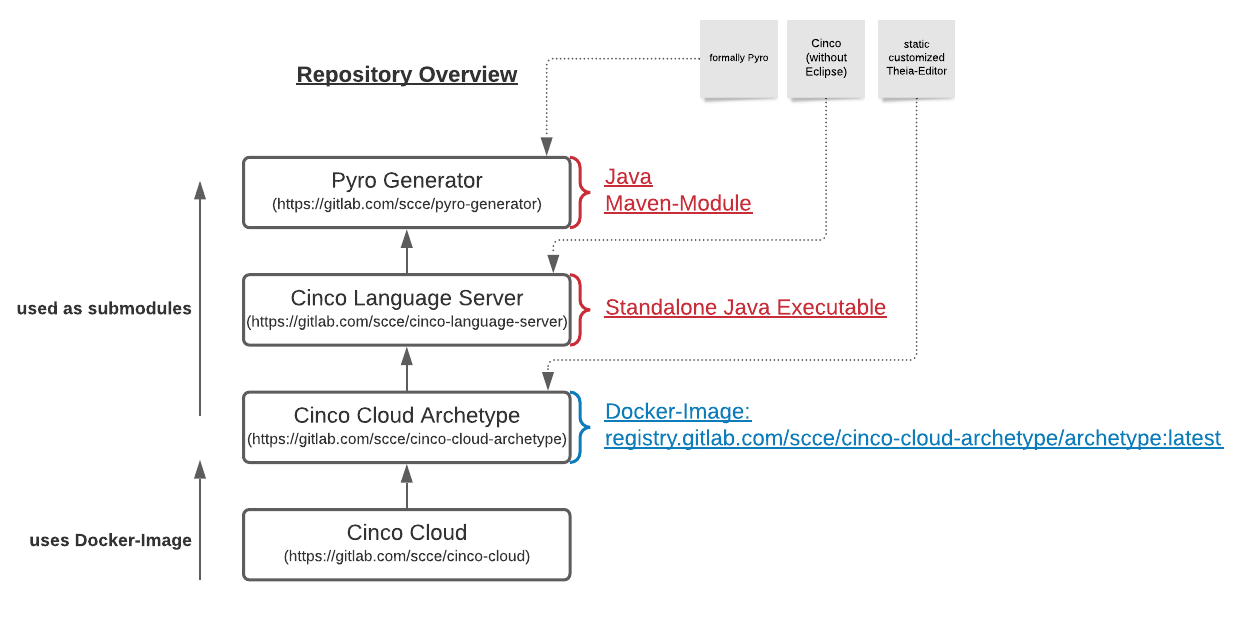
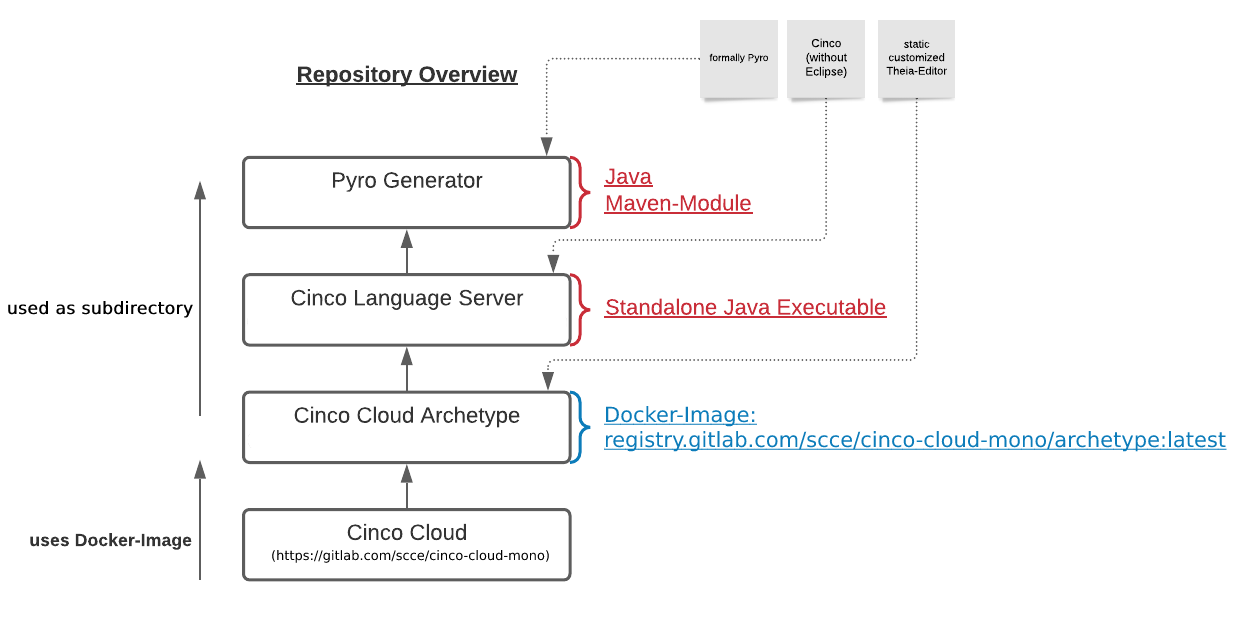
update docs and references

diff --git a/docs/vuepress/src/.vuepress/config.js b/docs/vuepress/src/.vuepress/config.js
@@ -50,7 +50,7 @@ module.exports = {
       },
       {
         text: 'CincoCloud@GitLab',
-        link: 'https://gitlab.com/scce/cinco-cloud'
+        link: 'https://gitlab.com/scce/cinco-cloud-mono'
       }
     ],
     sidebar: [

diff --git a/docs/vuepress/src/content/developer-guide/overview/README.md b/docs/vuepress/src/content/developer-guide/overview/README.md
@@ -1,28 +1,28 @@
 # Overview
 
-## Repositories
+## Directories
 
-There are several repositories involved in the concept of Cinco Cloud.
-Here you see a quick overview of all the repositories and their relations:
+There are several projects involved in the concept of Cinco Cloud that can be found in the repository.
+Here you see a quick overview of all the directories and their relations:
 
 ![Cinco Cloud Repositories](./assets/repository-overview.png)
 
-[**Cinco Cloud**](https://gitlab.com/scce/cinco-cloud):
-The *Cinco-Cloud repository* contains the *main-app*, which orchestrates the image deployment of editors and functions as central administration instances for the user- and project management.
+[**Cinco Cloud**](https://gitlab.com/scce/cinco-cloud-mono/-/tree/main/cinco-cloud):
+The *cinco-cloud* directory contains the *main-app*, which orchestrates the image deployment of editors and functions as central administration instances for the user- and project management.
 
-[**Cinco Cloud Archetype**](https://gitlab.com/scce/cinco-cloud-archetype):
-The *Cinco-Cloud Archetype repository* holds the sources for the static editor, which is based on *Eclipse Theia*, including all *theia and visual-studio-code* based *extensions*.
-One of these extensions can execute the *Cinco Language Server*, thus the project also contains the *Cinco Language Server*-repository as a submodule.
-Since this repository represents the most basic deployable Editor for a Cinco-Cloud project, it is continuously built to a docker-image via a CICD pipeline and put into a docker registry (registry.gitlab.com/scce/cinco-cloud-mono/archetype:latest).
+[**Cinco Cloud Archetype**](https://gitlab.com/scce/cinco-cloud-mono/-/tree/main/cinco-cloud-archetype):
+The *cinco-cloud-archetype* directory holds the sources for the static editor, which is based on *Eclipse Theia*, including all *theia and visual-studio-code* based *extensions*.
+One of these extensions can execute the *Cinco Language Server*, thus the project also contains the *Cinco Language Server*-project as a sub-directory.
+Since this directory represents the most basic deployable Editor for a Cinco-Cloud project, it is continuously built to a docker-image via a CICD pipeline and put into a docker registry (registry.gitlab.com/scce/cinco-cloud-mono/archetype:latest).
 This image will be reused and further expressed for new *Cinco Cloud projects*.
 
-[**Cinco Language Server**](https://gitlab.com/scce/cinco-language-server):
-The *Cinco language Server* itself first and foremost is a standalone Java executable.
+[**Cinco Language Server**](https://gitlab.com/scce/cinco-cloud-mono/-/tree/main/cinco-language-server):
+The *cinco-language-server* itself is a standalone Java executable.
 It serves language support for the *Cinco Languages* (CPD, MGL, Style/MSL) and a Generator to express new *Cinco Cloud Projects* based on these languages.
-A great part of this repository is based on the *Cinco*-repository, but without the *Eclipse-IDE dependencies*.
+A great part of this project is based on the *Cinco*-repository, but without the *Eclipse-IDE dependencies*.
 
-[**Pyro Generator**](https://gitlab.com/scce/pyro-generator):
-The *Pyro Generator* is a maven-submodule for both *Cinco* and the *Cinco Language Server*.
+[**Pyro Generator**](https://gitlab.com/scce/cinco-cloud-mono/-/tree/main/pyro-generator):
+The *pyro-generator* is a sub-directory for the *Cinco Language Server*.
 It expresses *Cinco Cloud Projects* based on the *Cinco Languages*.
 It is based on the formally known *Pyro*-repository.
 
@@ -54,7 +54,7 @@ Additionally, the Python web service offers a single endpoint for triggering the
 **Theia Editor**
 The *Theia Editor* is a framework for IDEs, based on [Eclipse Theia](https://github.com/eclipse-theia/theia).
 It represents the artifact that can be built by the *Workspace Builder* and deployed by the *Kubernetes API*.
-Its most basic form for the *Cinco-Cloud*, without specialization for a language, can be found inside the [*Cinco Cloud Archetype*](https://gitlab.com/scce/cinco-cloud-archetype).
+Its most basic form for the *Cinco-Cloud*, without specialization for a language, can be found inside the [*Cinco Cloud Archetype*](https://gitlab.com/scce/cinco-cloud-mono/-/tree/main/cinco-cloud-archetype).
 Each project that is deployed by a user via the CincoCloud frontend corresponds to exactly one Theia-based workspace.
 There are two kinds of editors that can be deployed: for the meta-level, a **Language Editor** is deployed that behaves similar to Cinco in a sense that we can define our graphical languages and write our generators here.
 The other one is a concrete **Model Editor** that uses parts of the Pyro front- and backend and allows graphical modelling.
@@ -63,19 +63,15 @@ In contrast to the language editor, the model editor is deployed together with a
 
 ## Secrets
 
-CincoCloud uses private GitLab repositories and its container registries.
-In order to pull images from these registries, we need to have the following three secrets (see the instruction on how to create and apply them [here](../installation/)) in the cluster:
+CincoCloud uses a private GitLab repository and its container registry.
+In order to pull images from its registry, we need to have the following secrets (see the instruction on how to create and apply them [here](../installation/)) in the cluster:
 
 * `cinco-cloud-registry-secret` <br>
-  Needed so that images for the *main service*, the *workspace builder* and the *image registry* can be pulled from the [Cinco Cloud Container Registry][cinco-cloud-container-registry] from within the Kubernetes cluster.
+  Needed so that images for the *main service*, the *workspace builder*, the *image registry* and the archetype can be pulled from the [Cinco Cloud Container Registry][cinco-cloud-container-registry] from within the Kubernetes cluster.
   The secret has the type `kubernetes.io/dockerconfigjson`.
 
-* `cinco-cloud-archetype-registry-secret` <br>
-  Needed so that images for the *Theia editor* can be pulled from the [Cinco Cloud Archetype Container Registry][cinco-cloud-archetype-container-registry] from within the cluster.
-  The secret has the type `kubernetes.io/dockerconfigjson`.
-
-* `cinco-cloud-archetype-registry-credentials` <br>
-  Needed by the *workspace builder* and contains the base64 encoded username and password to login to the [Cinco Cloud Archetype Container Registry][cinco-cloud-archetype-container-registry] in order to pull the archetype image.
+* `cinco-cloud-registry-credentials` <br>
+  Needed by the *workspace builder* and contains the base64 encoded username and password to login to the [Cinco Cloud Container Registry][cinco-cloud-container-registry] in order to pull the archetype image.
   The secret is of type `opaque`.
 
 * `cinco-cloud-main-secrets` <br>
@@ -83,7 +79,6 @@ In order to pull images from these registries, we need to have the following thr
   For now, it only contains the secret that is used to hash user passwords.
   The secret is of type `opaque`.
 
-[cinco-cloud-archetype-container-registry]: https://gitlab.com/scce/cinco-cloud-archetype/container_registry
 [cinco-cloud-container-registry]: https://gitlab.com/scce/cinco-cloud/container_registry
 [grpc]: https://grpc.io/
 [podman]: https://podman.io/

diff --git a/docs/vuepress/src/content/developer-guide/installation/README.md b/docs/vuepress/src/content/developer-guide/installation/README.md
@@ -77,7 +77,7 @@ Install one of them.
 
 ### 4. Create necessary secrets
 
-1. Create a deploy token in the [cinco cloud archetype repository][cinco-cloud-archetype] with `read_registry` rights
+1. Create a deploy token in the [cinco cloud repository][cinco-cloud-repository] with `read_registry` rights
 
 2. In the cinco-cloud directory, create the file `infrastructure/helm/secrets.yaml` and add the following secret, for `<USERNAME>` and `<PASSWORD>` base64 encode and enter the credentials from the previous step:
 
@@ -85,7 +85,7 @@ Install one of them.
     apiVersion: v1
     kind: Secret
     metadata:
-      name: cinco-cloud-archetype-registry-credentials
+      name: cinco-cloud-registry-credentials
     type: Opaque
     data:
       username: <USERNAME>
@@ -95,9 +95,7 @@ Install one of them.
 3. Create and apply secrets for the GitLab registry
     1. Create a secret for the cinco cloud repository:<br>
        `kubectl create secret docker-registry cinco-cloud-registry-secret --docker-server=registry.gitlab.com --docker-username=<USERNAME> --docker-password=<USERNAME> --dry-run=client -o yaml`
-    2. Create a secret for the cinco cloud archetype repository:<br>
-       `kubectl create secret docker-registry cinco-cloud-archetype-registry-secret --docker-server=registry.gitlab.com --docker-username=<USERNAME> --docker-password=<USERNAME> --dry-run=client -o yaml`
-    3. Copy the terminal output in the`secrets.yaml` file
+    2. Copy the terminal output in the`secrets.yaml` file
 
 4. Ensure that you separate all secrets in the `secrets.yaml` file with a new line containing `---`.
 
@@ -149,7 +147,6 @@ If you want to simulate a production build on your local machine use 2 or 3.
 [skaffold]: https://skaffold.dev/
 [minikube]: https://minikube.sigs.k8s.io/
 [docker-secret]: https://kubernetes.io/docs/tasks/configure-pod-container/pull-image-private-registry/
-[cinco-cloud-archetype]: https://gitlab.com/scce/cinco-cloud-archetype
-[cinco-cloud-repository]: https://gitlab.com/scce/cinco-cloud
+[cinco-cloud-repository]: https://gitlab.com/scce/cinco-cloud-mono
 [kubectl]: https://kubernetes.io/docs/reference/kubectl/overview/
 [cert-manager]: https://cert-manager.io/docs/installation/helm/#
